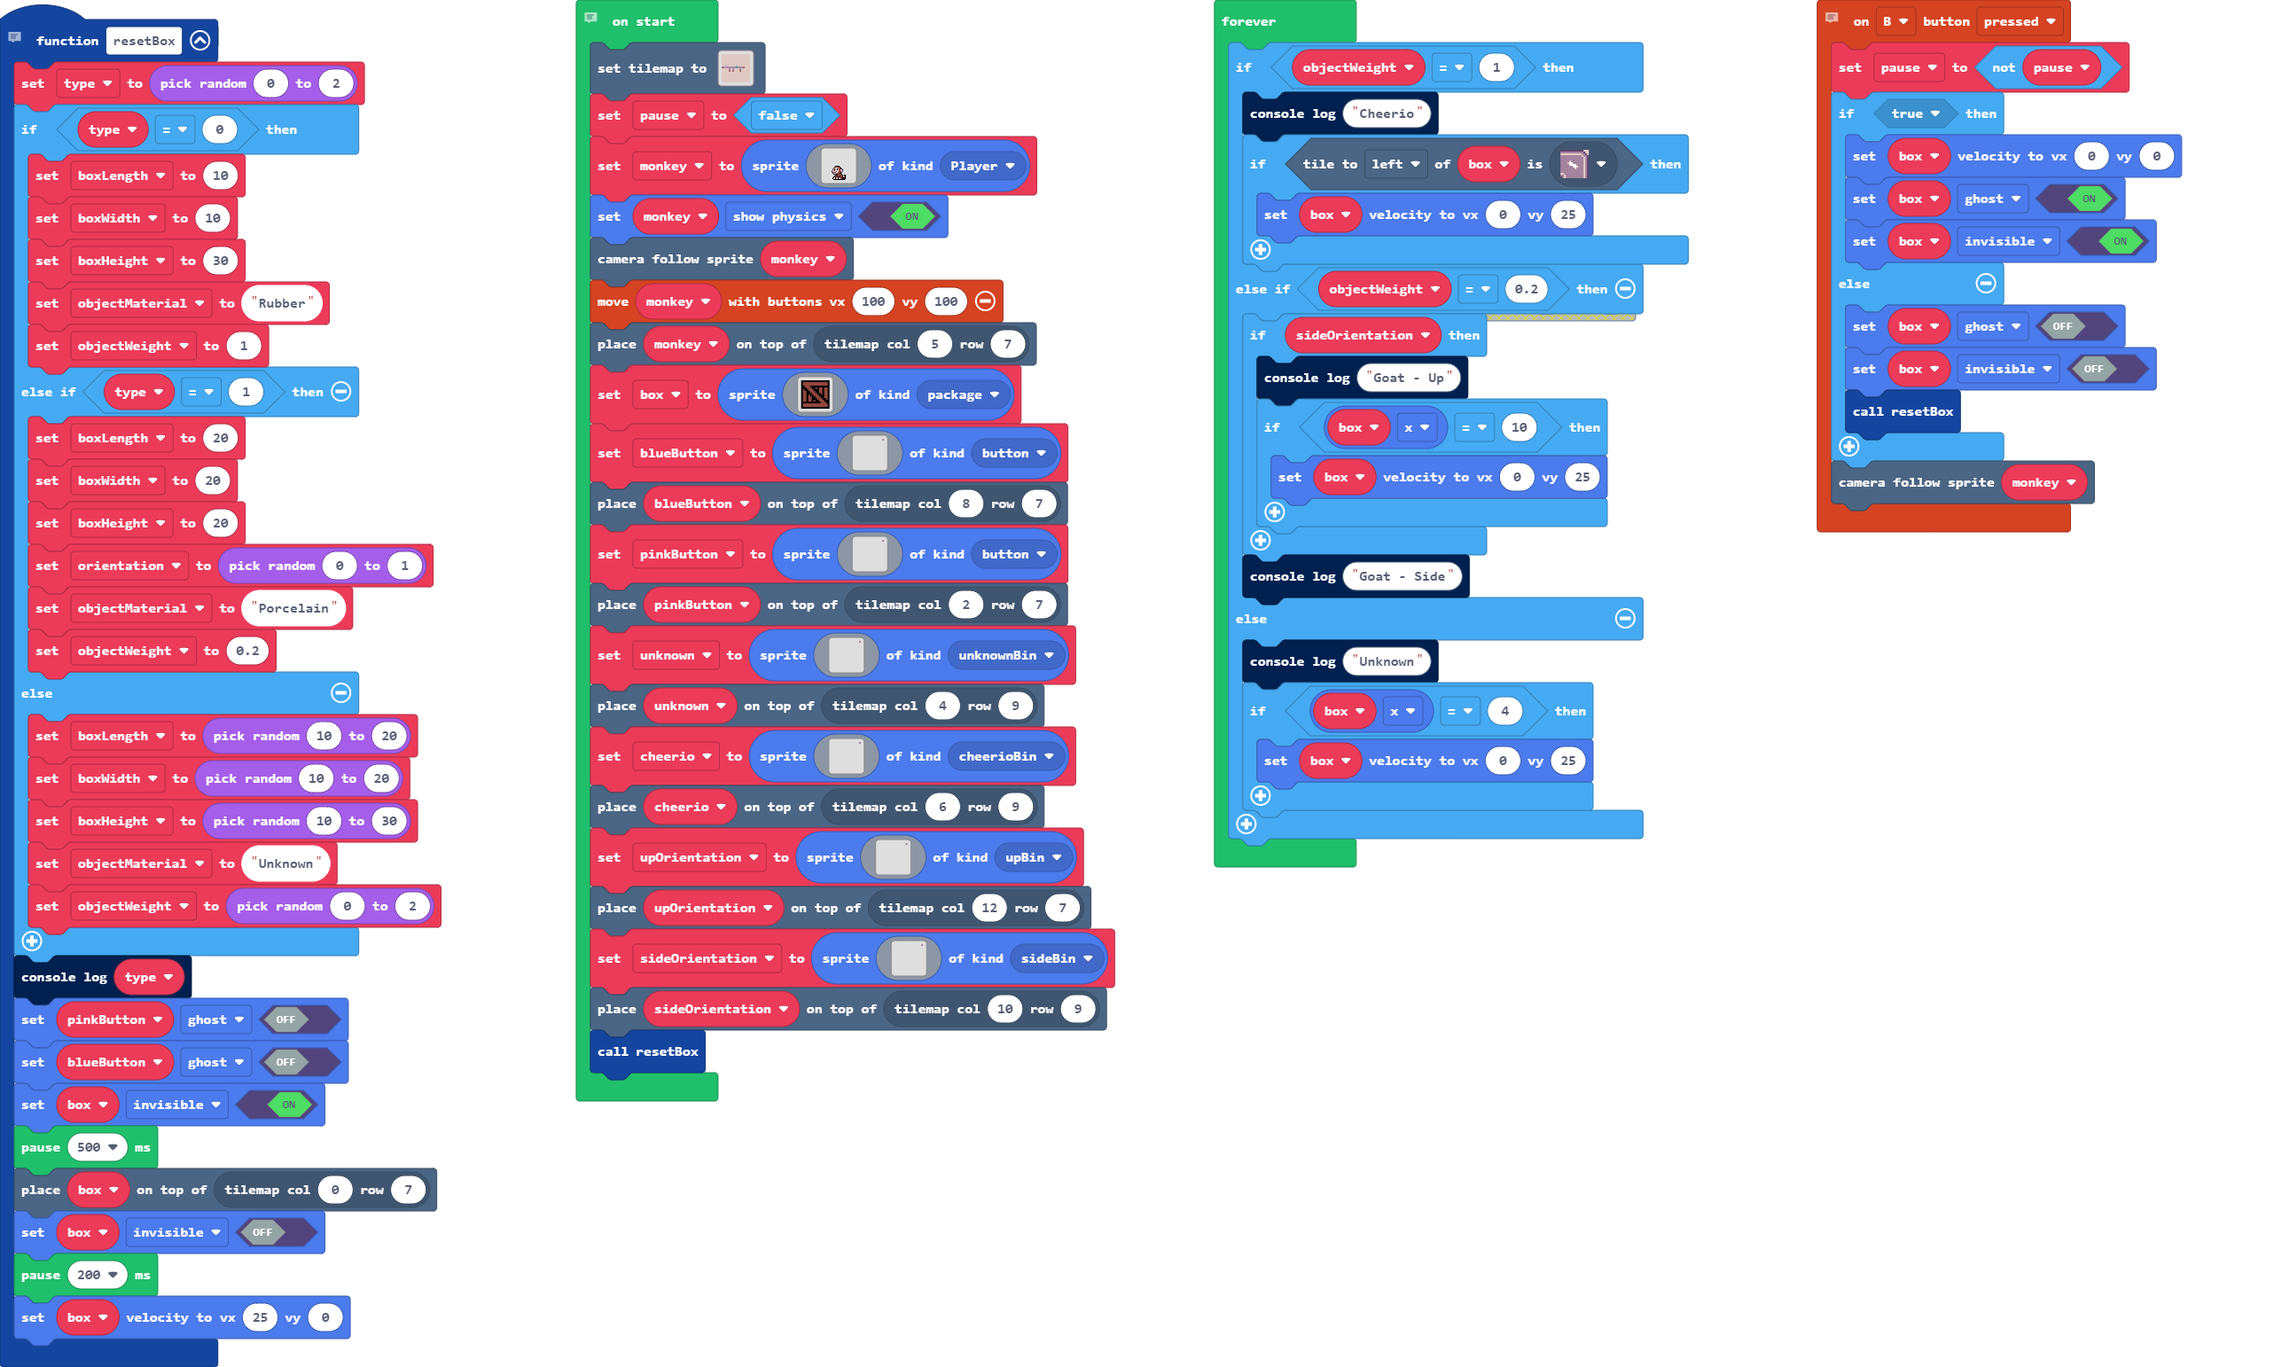
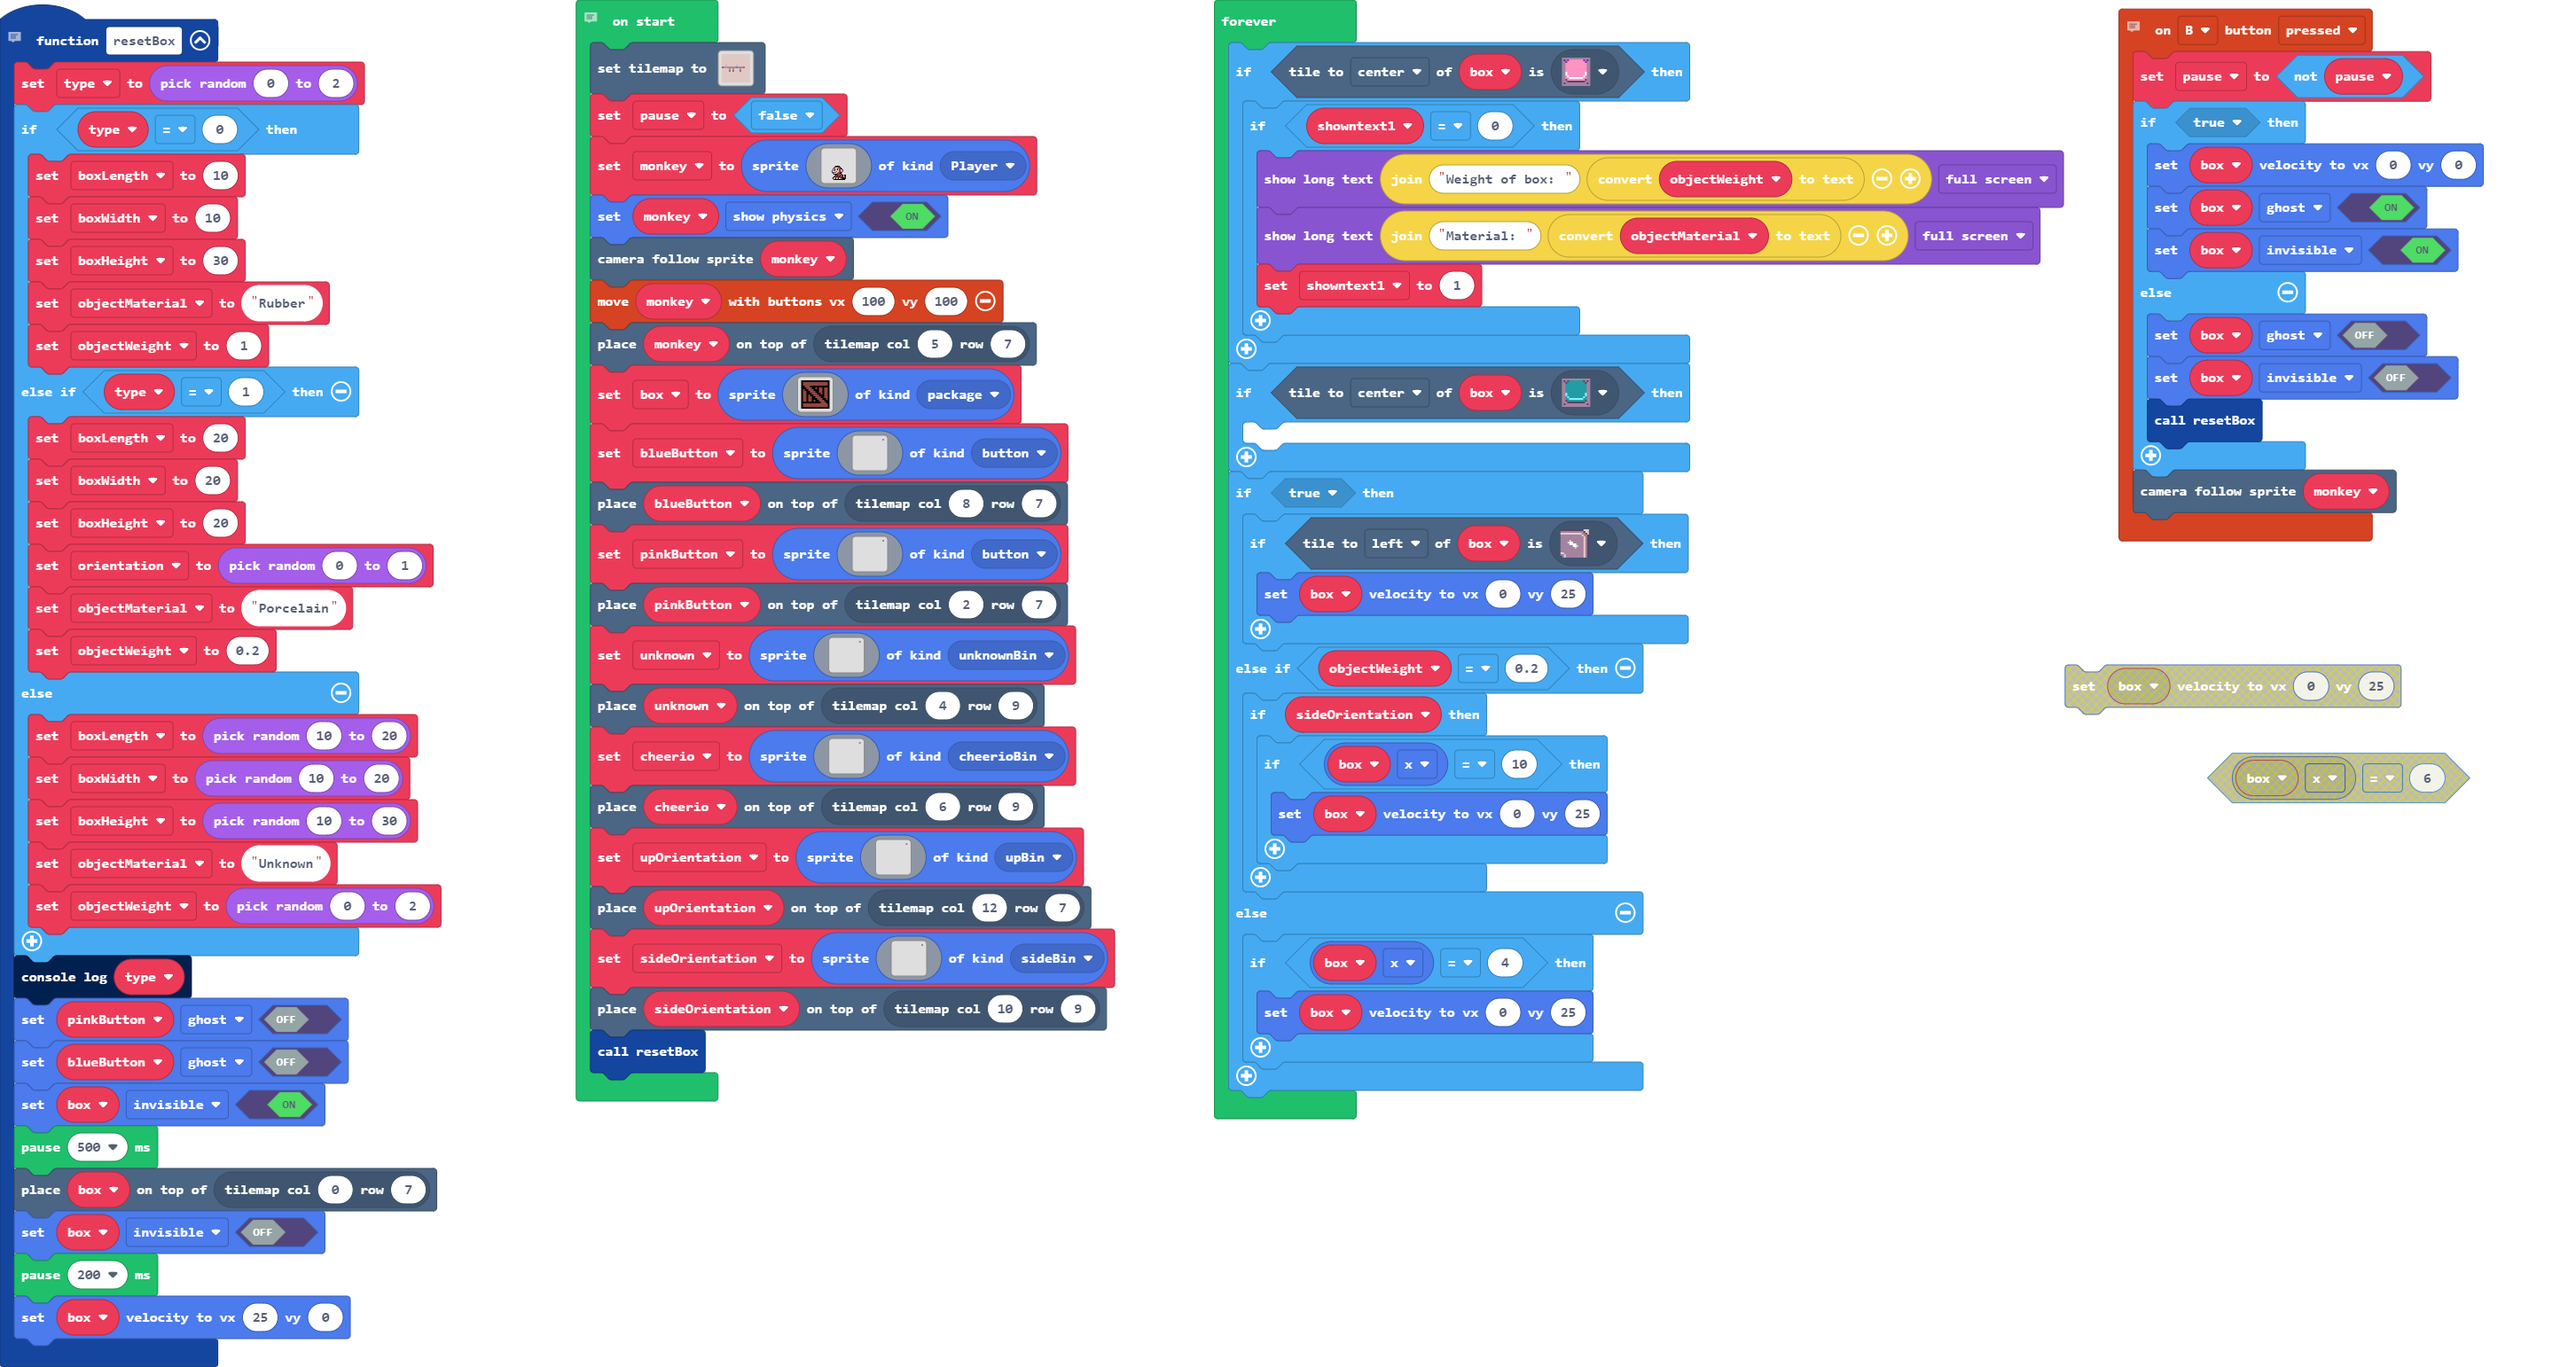
Update main.blocks, main.ts

diff --git a/main.ts b/main.ts
@@ -56,6 +56,7 @@ function resetBox () {
     box.setVelocity(25, 0)
 }
 // Create and place game map and objects
+let showntext1 = 0
 let orientation = 0
 let objectWeight = 0
 let objectMaterial = ""
@@ -259,21 +260,27 @@ let sideOrientation = sprites.create(img`
 tiles.placeOnTile(sideOrientation, tiles.getTileLocation(10, 9))
 resetBox()
 forever(function () {
-    if (objectWeight == 1) {
-        console.log("Cheerio")
+    if (box.tileKindAt(TileDirection.Center, sprites.dungeon.buttonPink)) {
+        if (showntext1 == 0) {
+            game.showLongText("Weight of box: " + convertToText(objectWeight), DialogLayout.Full)
+            game.showLongText("Material: " + convertToText(objectMaterial), DialogLayout.Full)
+            showntext1 = 1
+        }
+    }
+    if (box.tileKindAt(TileDirection.Center, sprites.dungeon.buttonTeal)) {
+    	
+    }
+    if (true) {
         if (box.tileKindAt(TileDirection.Left, myTiles.tile2)) {
             box.setVelocity(0, 25)
         }
     } else if (objectWeight == 0.2) {
         if (sideOrientation) {
-            console.log("Goat - Up")
             if (box.x == 10) {
                 box.setVelocity(0, 25)
             }
         }
-        console.log("Goat - Side")
     } else {
-        console.log("Unknown")
         if (box.x == 4) {
             box.setVelocity(0, 25)
         }
